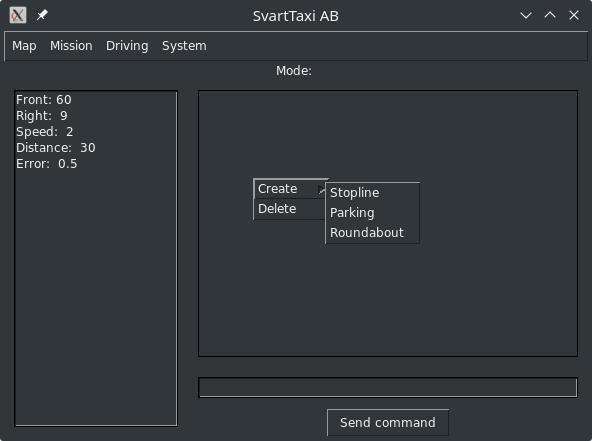
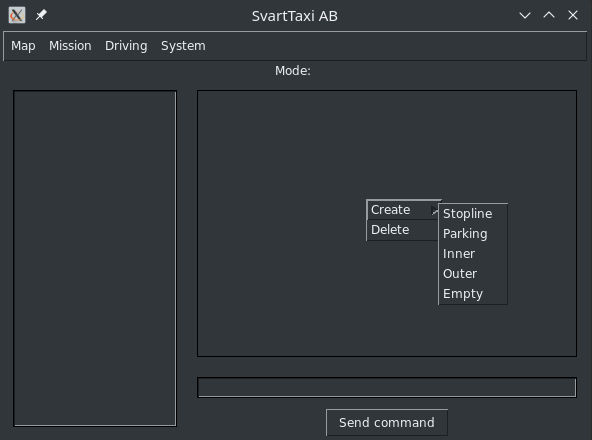
continue on user man

diff --git a/doc/manual/sections/remote.tex b/doc/manual/sections/remote.tex
@@ -13,7 +13,7 @@ upp sig till bilen. För att starta gränssnittet kör man filen main.py.
 För att ansluta till den startade servern navigerar man till
 System-Server-Connect. 
 
-\begin{figure}[h]
+\begin{figure}[H]
     \centering
     \includegraphics[width=0.6\linewidth]{manual/figures/system_menu.png}
     \caption{Hur man navigerar för att ansluta till servern.}
@@ -24,7 +24,7 @@ System-Server-Connect.
 Efter att man tryckt på Connect kommer en ruta upp där
 man kan skriva in en IP-adress.
 
-\begin{figure}[h]
+\begin{figure}[H]
     \centering
     \includegraphics[width=0.6\linewidth]{manual/figures/enter_ip.png}
     \caption{Rutan som kommer upp när man trycker på \textit{Connect}.}
@@ -42,7 +42,7 @@ Efter att ha anslutit till bilen kan man välja ifall man vill styra bilen
 manuellt eller ifall man vill att bilen skall köra autonomn. För att välja
 detta navigerar man till Driving-Manual respektive Driving-Auto.
 
-\begin{figure}[h]
+\begin{figure}[H]
     \centering
     \includegraphics[width=0.6\linewidth]{manual/figures/driving_menu.png}
     \caption{Hur man navigerar för att byta körläge.}
@@ -60,9 +60,8 @@ Banan representeras av noder och enkelriktade kanter, där varje nod
 representerar en stopp-, rondell- eller parkeringslinje på banan. Varje kant
 representerar en vägfil på banan. För att skapa noder högerklickar man i den
 stora rutan på gränssnittet och navigerar till Create. Där finns flera olika
-valalternativ. Man kan välja antingen Stopline, Parking eller Roundabout, där
-Stopline är representerade av röda cirklar, Parking av gula cirklar och
-Roundabout av blå cirklar på användarsnittet. Se Figur \ref{fig:create_node}.
+valalternativ. Man kan välja antingen Stopline, Parking, Inner, Outer eller
+Empty. Se Figur \ref{fig:create_node}.
 
 \begin{figure}[H]
     \centering
@@ -70,23 +69,45 @@ Roundabout av blå cirklar på användarsnittet. Se Figur \ref{fig:create_node}.
     \caption{Hur man navigerar för att skapa olika noder.}
     \label{fig:create_node}
 \end{figure}
+ 
+\noindent
+Stopline-noder är representerade av röda cirklar, Parking av gula
+cirklar, Inner av mörkblå cirklar, Outer av ljusblå cirklar och Empty av vita
+cirklar. Se Figur \ref{fig:node_colors}
 
+\begin{figure}[H]
+    \centering
+    \includegraphics[width=0.6\linewidth]{manual/figures/node_colors.png}
+    \caption{Noder med olika färger.}
+    \label{fig:node_colors}
+\end{figure}
 
+\noindent
 För att skapa kanter måste man först ha skapat 2 noder. Om man vänsterklickar
 på en nod blir den grön, detta betyder att noden är markerad. Om man
 vänsterklickar på en annan nod medan en nod är markerad kommer en ny ruta upp
 där man kan mata in kostnaden på kanten. Kostnaden representerar längden på
-vägfilen i banan. 
+vägfilen i banan. Alla kanter är riktande åt endast ett håll.
 
-\begin{figure}[h]
+\begin{figure}[H]
     \centering
     \includegraphics[width=0.6\linewidth]{manual/figures/enter_cost.png}
     \caption{Rutan som kommer fram när man ska skapa en kant.}
     \label{fig:create_edge}
 \end{figure}
 
-Rondeller på banan representeras en nod för varje infart och en nod för varje
-utfart. En rondell med 3 infarter/utfarter representeras med 6 noder, en
-rondell med 4 infarter/utfarter representeras med 8 noder, och så vidare. Alla
-kanter inom rondellen är endast riktade åt ett håll. en rondell kan se ut som
-visat i Figur \ref{fig:create_edge}.
+\noindent
+Rondeller på banan representeras en nod för varje infart till rondellen (Outer)
+och en nod för varje utfart från rondellen (Inner). för att skapa en giltig
+varje utfart (Inner). En rondell med 3 infarter/utfarter representeras med 6
+noder, en rondell med 4 infarter/utfarter representeras med 8 noder, och så
+vidare. En rondell med 4 utfarter kan se ut som visat i Figur
+\ref{fig:roundabout}, där även kanterna är dragna.
+
+\begin{figure}[H]
+    \centering
+    \includegraphics[width=0.6\linewidth]{manual/figures/roundabout.png}
+    \caption{Exempel på en rondell.}
+    \label{fig:roundabout}
+\end{figure}
+
